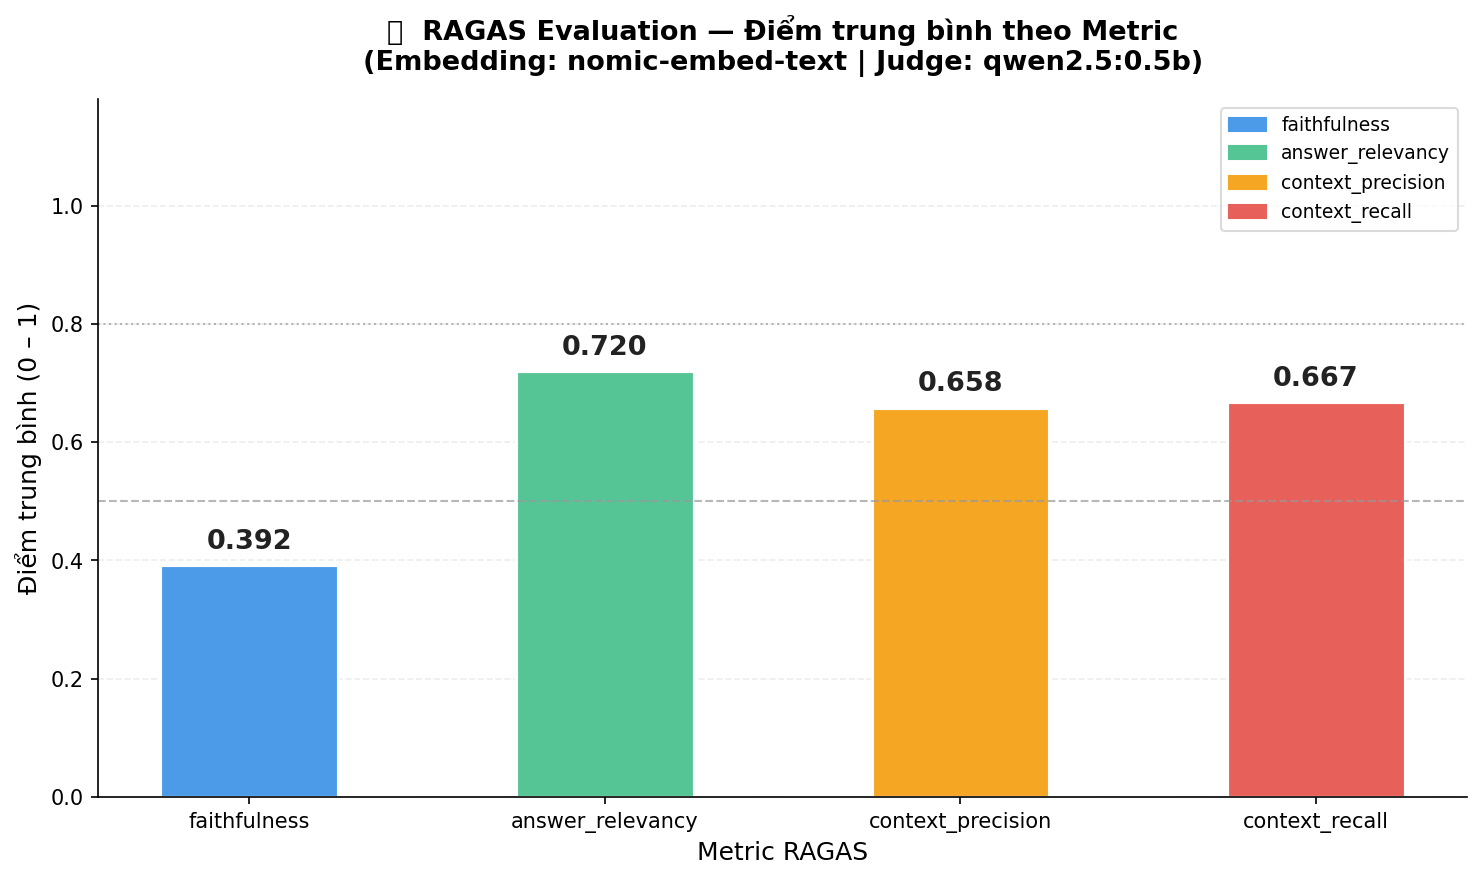
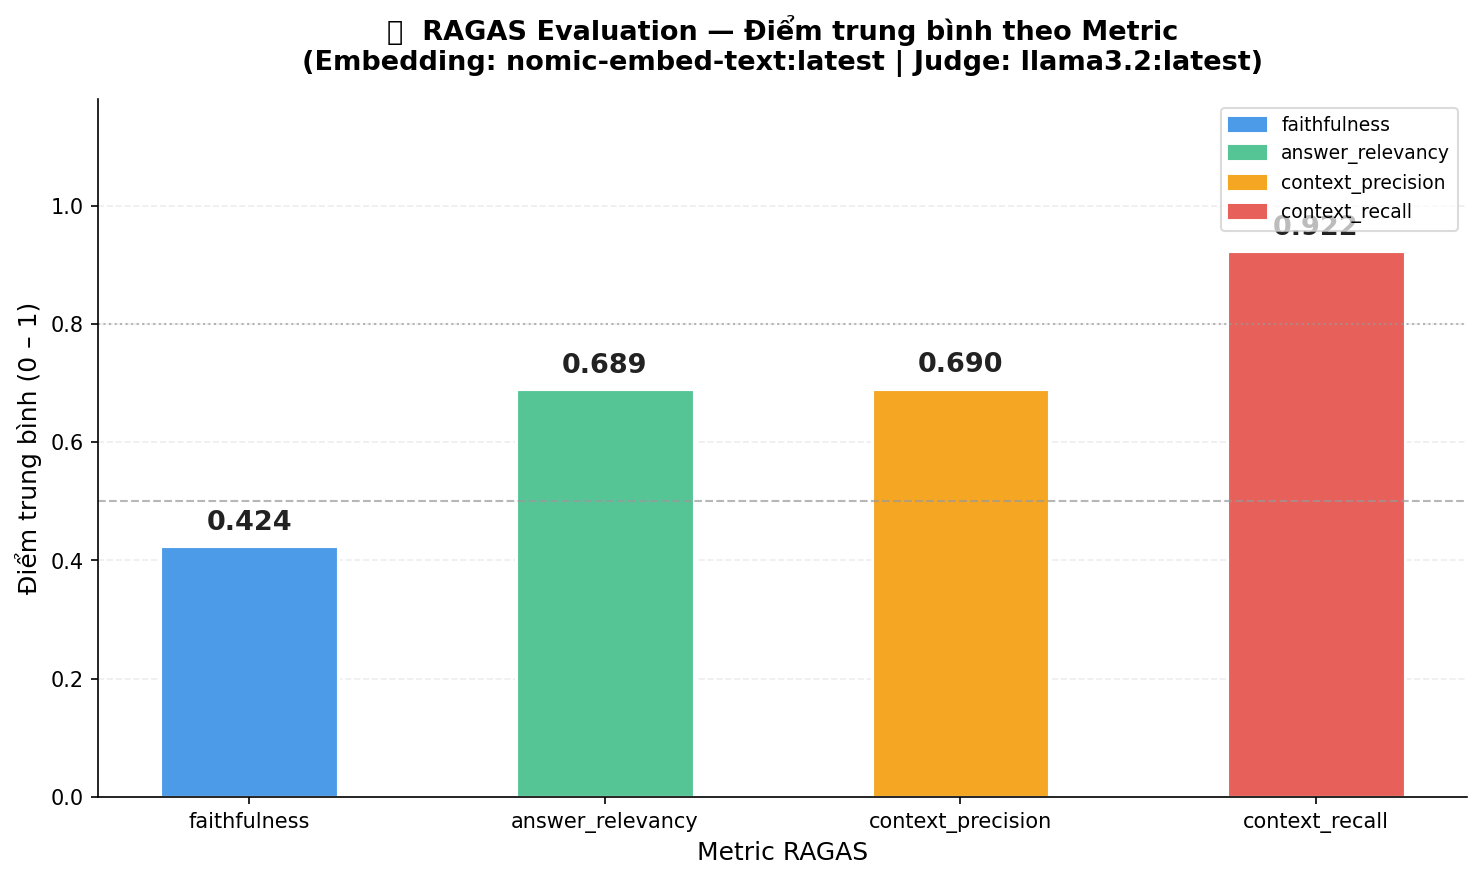
add dataset and model

diff --git a/evaluation/evaluate_ragas.py b/evaluation/evaluate_ragas.py
@@ -36,10 +36,9 @@ import os, pathlib
 
 # ── Tự tìm file CSV ở nhiều vị trí phổ biến ──────────────────────────────────
 _CSV_CANDIDATES = [
-    "ragas_questions.csv",
-    "ragas_test_data.csv",
-    "evaluation/ragas_questions.csv",
-    "NLP1/evaluation/ragas_questions.csv",
+    "ragas_questions_v3.csv",
+    "evaluation/ragas_questions_v3.csv",
+    "NLP/evaluation/ragas_question_v3.csv",
 ]
 
 def _find_csv() -> str:
@@ -62,12 +61,12 @@ INPUT_CSV        = _find_csv()
 OUTPUT_CSV       = "ragas_result.csv"
 CHART_PNG        = "ragas_chart.png"
 OLLAMA_BASE_URL = "http://localhost:11434"
-EMBED_MODEL      = "nomic-embed-text"      # model embedding
+EMBED_MODEL      = "nomic-embed-text:latest"      # model embedding
 
 # ── Tự chọn LLM judge từ các model đã pull ───────────────────────────────────
 # Ưu tiên theo thứ tự: llama3 → mistral → phi3 → gemma → bất kỳ model nào có
-_LLM_PREFER = ["qwen2", "llama3", "mistral", "phi3", "gemma", "llava"]
-LLM_MODEL   = None  # sẽ được resolve ở check_ollama_models()
+_LLM_PREFER = ["llama3.2:latest", "qwen2.5:0.5b"]
+LLM_MODEL   = "qwen2.5:0.5b"  # sẽ được resolve ở check_ollama_models()
 
 # ─── Tiện ích Ollama ──────────────────────────────────────────────────────────
 
@@ -80,12 +79,12 @@ def _post(endpoint: str, payload: dict, timeout: int = 120) -> dict:
         return r.json()
     except requests.exceptions.ConnectionError:
         sys.exit(
-            "\n❌  Không kết nối được Ollama!\n"
+            "\n  Không kết nối được Ollama!\n"
             "    Hãy chạy:  ollama serve\n"
             "    rồi thử lại script."
         )
     except requests.exceptions.HTTPError as e:
-        sys.exit(f"\n❌  Ollama HTTP error: {e}\n    Response: {r.text}")
+        sys.exit(f"\n  Ollama HTTP error: {e}\n    Response: {r.text}")
 
 
 def embed(text: str) -> List[float]:
@@ -232,23 +231,19 @@ def check_ollama_models() -> None:
         avail = [m["name"] for m in tags.get("models", [])]
     except requests.exceptions.ConnectionError:
         sys.exit(
-            "\n❌  Không kết nối được Ollama!\n"
+            "\n  Không kết nối được Ollama!\n"
             "    Hãy chạy:  ollama serve\n"
             "    rồi thử lại script.\n"
         )
     except Exception as e:
-        print(f"⚠  Không thể kiểm tra model: {e}. Dùng mặc định llama3.\n")
-        LLM_MODEL = "llama3"
+        print(f"  Không thể kiểm tra model: {e}. Dùng mặc định llama3.\n")
+        LLM_MODEL = "qwen2.5:0.5b"
         return
 
     # Tự chọn LLM judge từ danh sách ưu tiên
     for preferred in _LLM_PREFER:
-        for model_name in avail:
-            if model_name.startswith(preferred):
-                LLM_MODEL = model_name
-                break
-
-        if LLM_MODEL is not None:
+        if preferred in avail:
+            LLM_MODEL = preferred
             break
 
     if LLM_MODEL is None:
@@ -258,7 +253,7 @@ def check_ollama_models() -> None:
             LLM_MODEL = others[0]
         else:
             sys.exit(
-                "\n❌  Không tìm thấy LLM model nào trong Ollama!\n"
+                "\n  Không tìm thấy LLM model nào trong Ollama!\n"
                 "    Chạy một trong các lệnh sau để cài:\n"
                 "      ollama pull llama3      (khuyên dùng, ~4.7GB)\n"
                 "      ollama pull mistral     (~4.1GB)\n"
@@ -267,19 +262,19 @@ def check_ollama_models() -> None:
             )
 
     # Kiểm tra embed model
-    if not any(model.startswith(EMBED_MODEL) for model in avail):
+    if EMBED_MODEL not in avail:
         sys.exit(
-            f"\n❌  Chưa pull embedding model '{EMBED_MODEL}'!\n"
+            f"\n  Chưa pull embedding model '{EMBED_MODEL}'!\n"
             f"    Chạy:  ollama pull {EMBED_MODEL}\n"
         )
 
-    print(f"✅  Embedding model : {EMBED_MODEL}")
-    print(f"✅  LLM judge       : {LLM_MODEL}  (tự chọn từ danh sách đã pull)\n")
+    print(f"  Embedding model : {EMBED_MODEL}")
+    print(f"  LLM judge       : {LLM_MODEL}  (tự chọn từ danh sách đã pull)\n")
 
 
 def main() -> None:
     print("=" * 62)
-    print("  🍰  RAGAS Evaluation — Powered by Ollama (no OpenAI)  🍰")
+    print("    RAGAS Evaluation — Powered by Ollama (no OpenAI)  ")
     print("=" * 62 + "\n")
 
     # 1. Kiểm tra Ollama & model
@@ -293,7 +288,7 @@ def main() -> None:
     required = {"question", "answer", "contexts", "ground_truth"}
     missing_cols = required - set(df.columns)
     if missing_cols:
-        sys.exit(f"❌  File CSV thiếu cột: {missing_cols}")
+        sys.exit(f"  File CSV thiếu cột: {missing_cols}")
 
     df["contexts_list"] = df["contexts"].apply(parse_contexts)
     n = len(df)
@@ -348,7 +343,7 @@ def main() -> None:
 
     print("[3/5] Kết quả tổng quan:\n")
     print("=" * 58)
-    print("  📊  RAGAS — Điểm trung bình toàn dataset")
+    print("    RAGAS — Điểm trung bình toàn dataset")
     print("=" * 58)
     for name, score in avgs.items():
         bar = "█" * int(score * 24) + "░" * (24 - int(score * 24))
@@ -413,7 +408,7 @@ def main() -> None:
     plt.show()
     print(f"      → Đã lưu biểu đồ.\n")
 
-    print("✅  Hoàn tất!")
+    print("  Hoàn tất!")
     print(f"   • Kết quả chi tiết : {OUTPUT_CSV}")
     print(f"   • Biểu đồ          : {CHART_PNG}")
     print()
